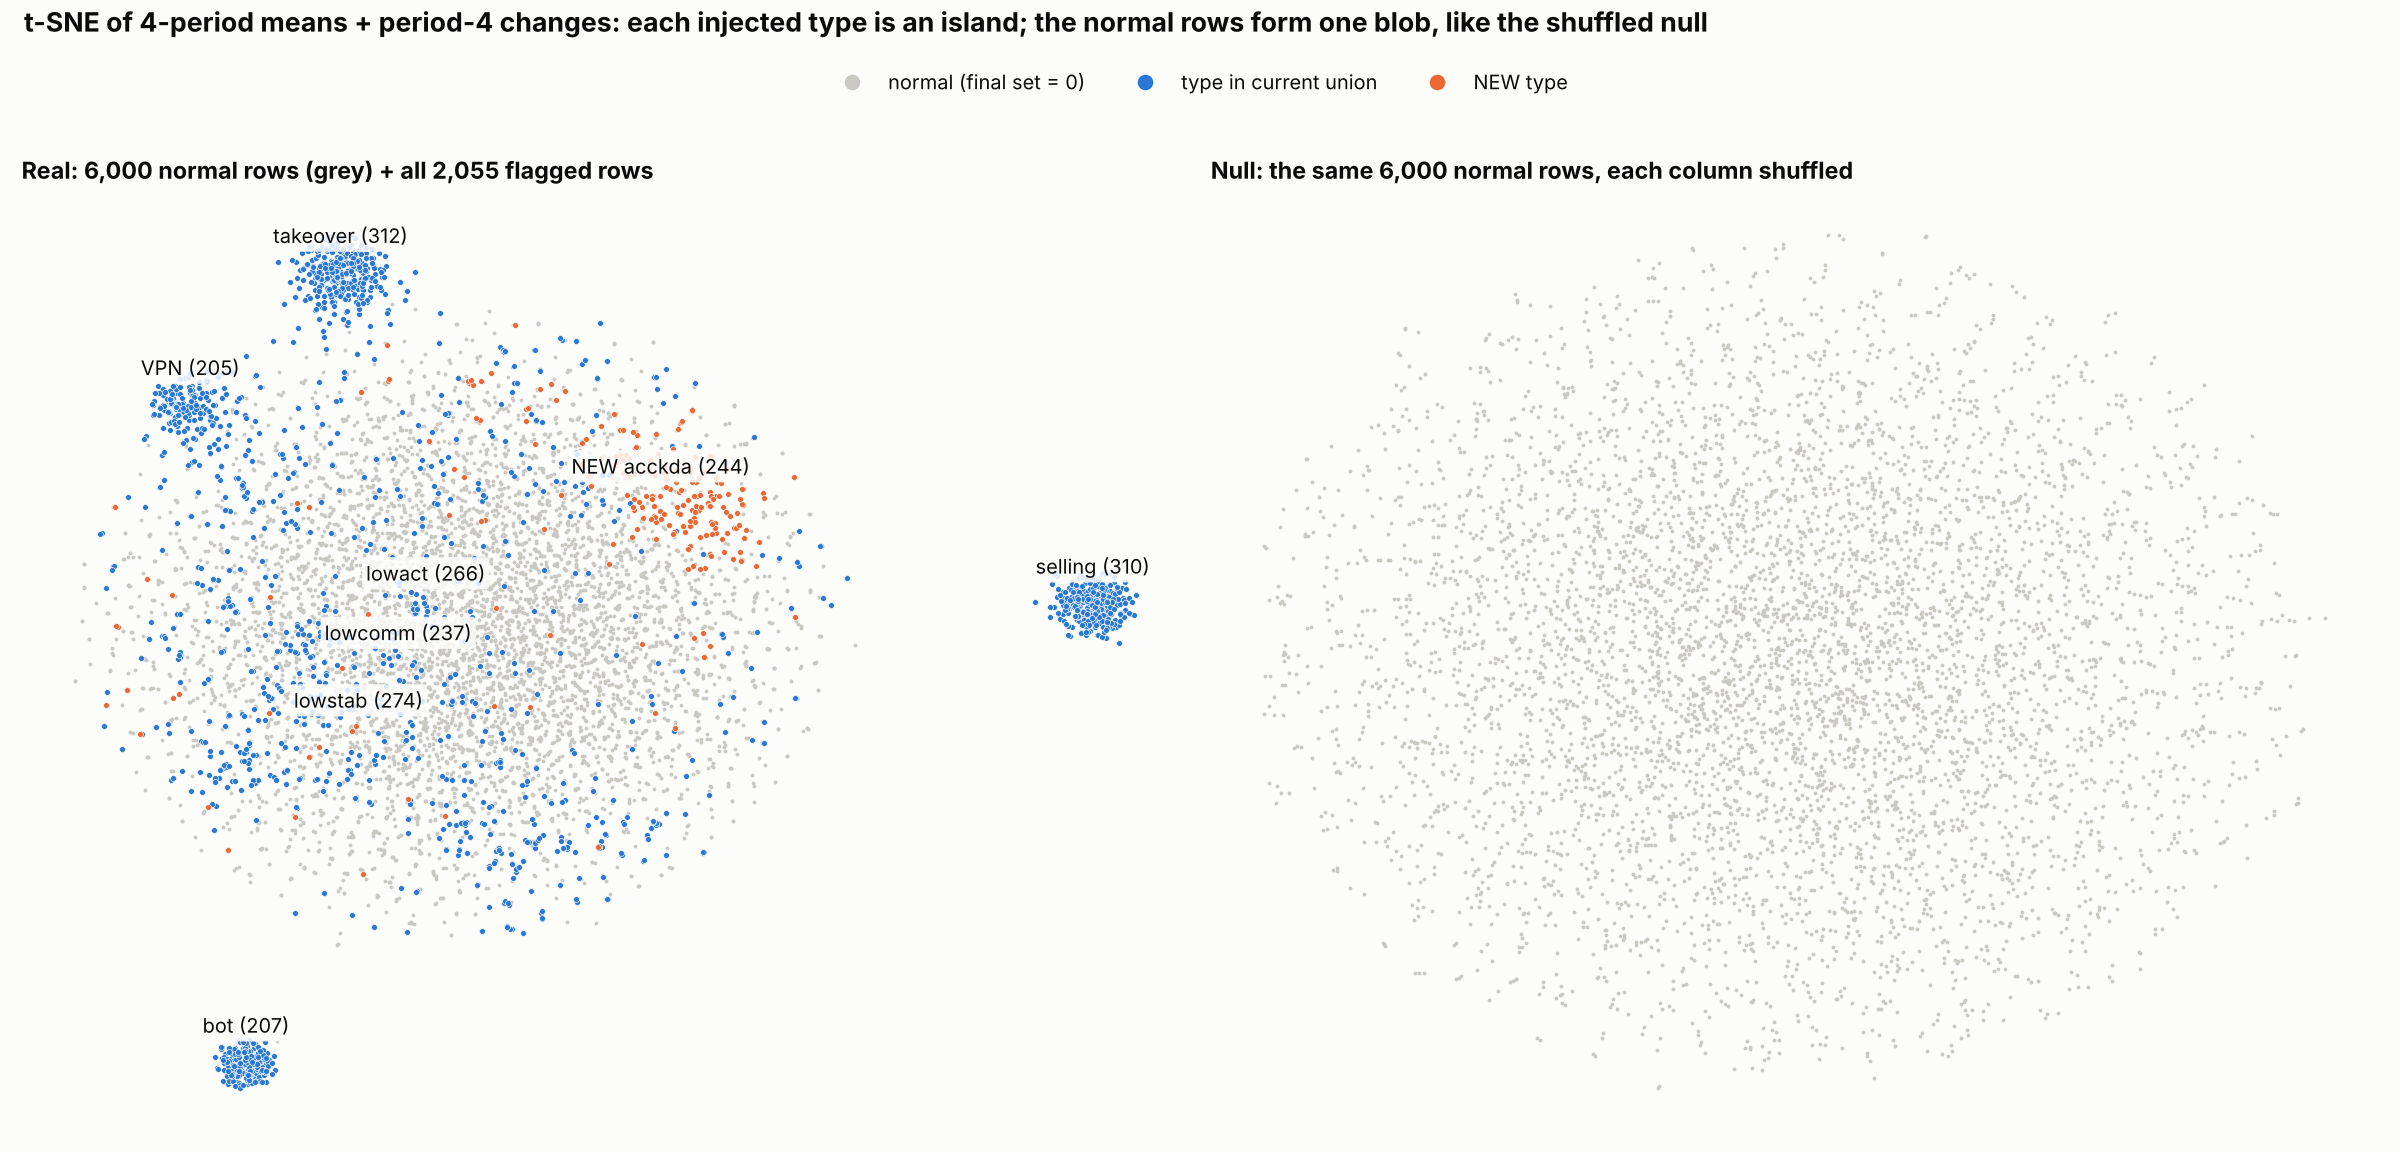
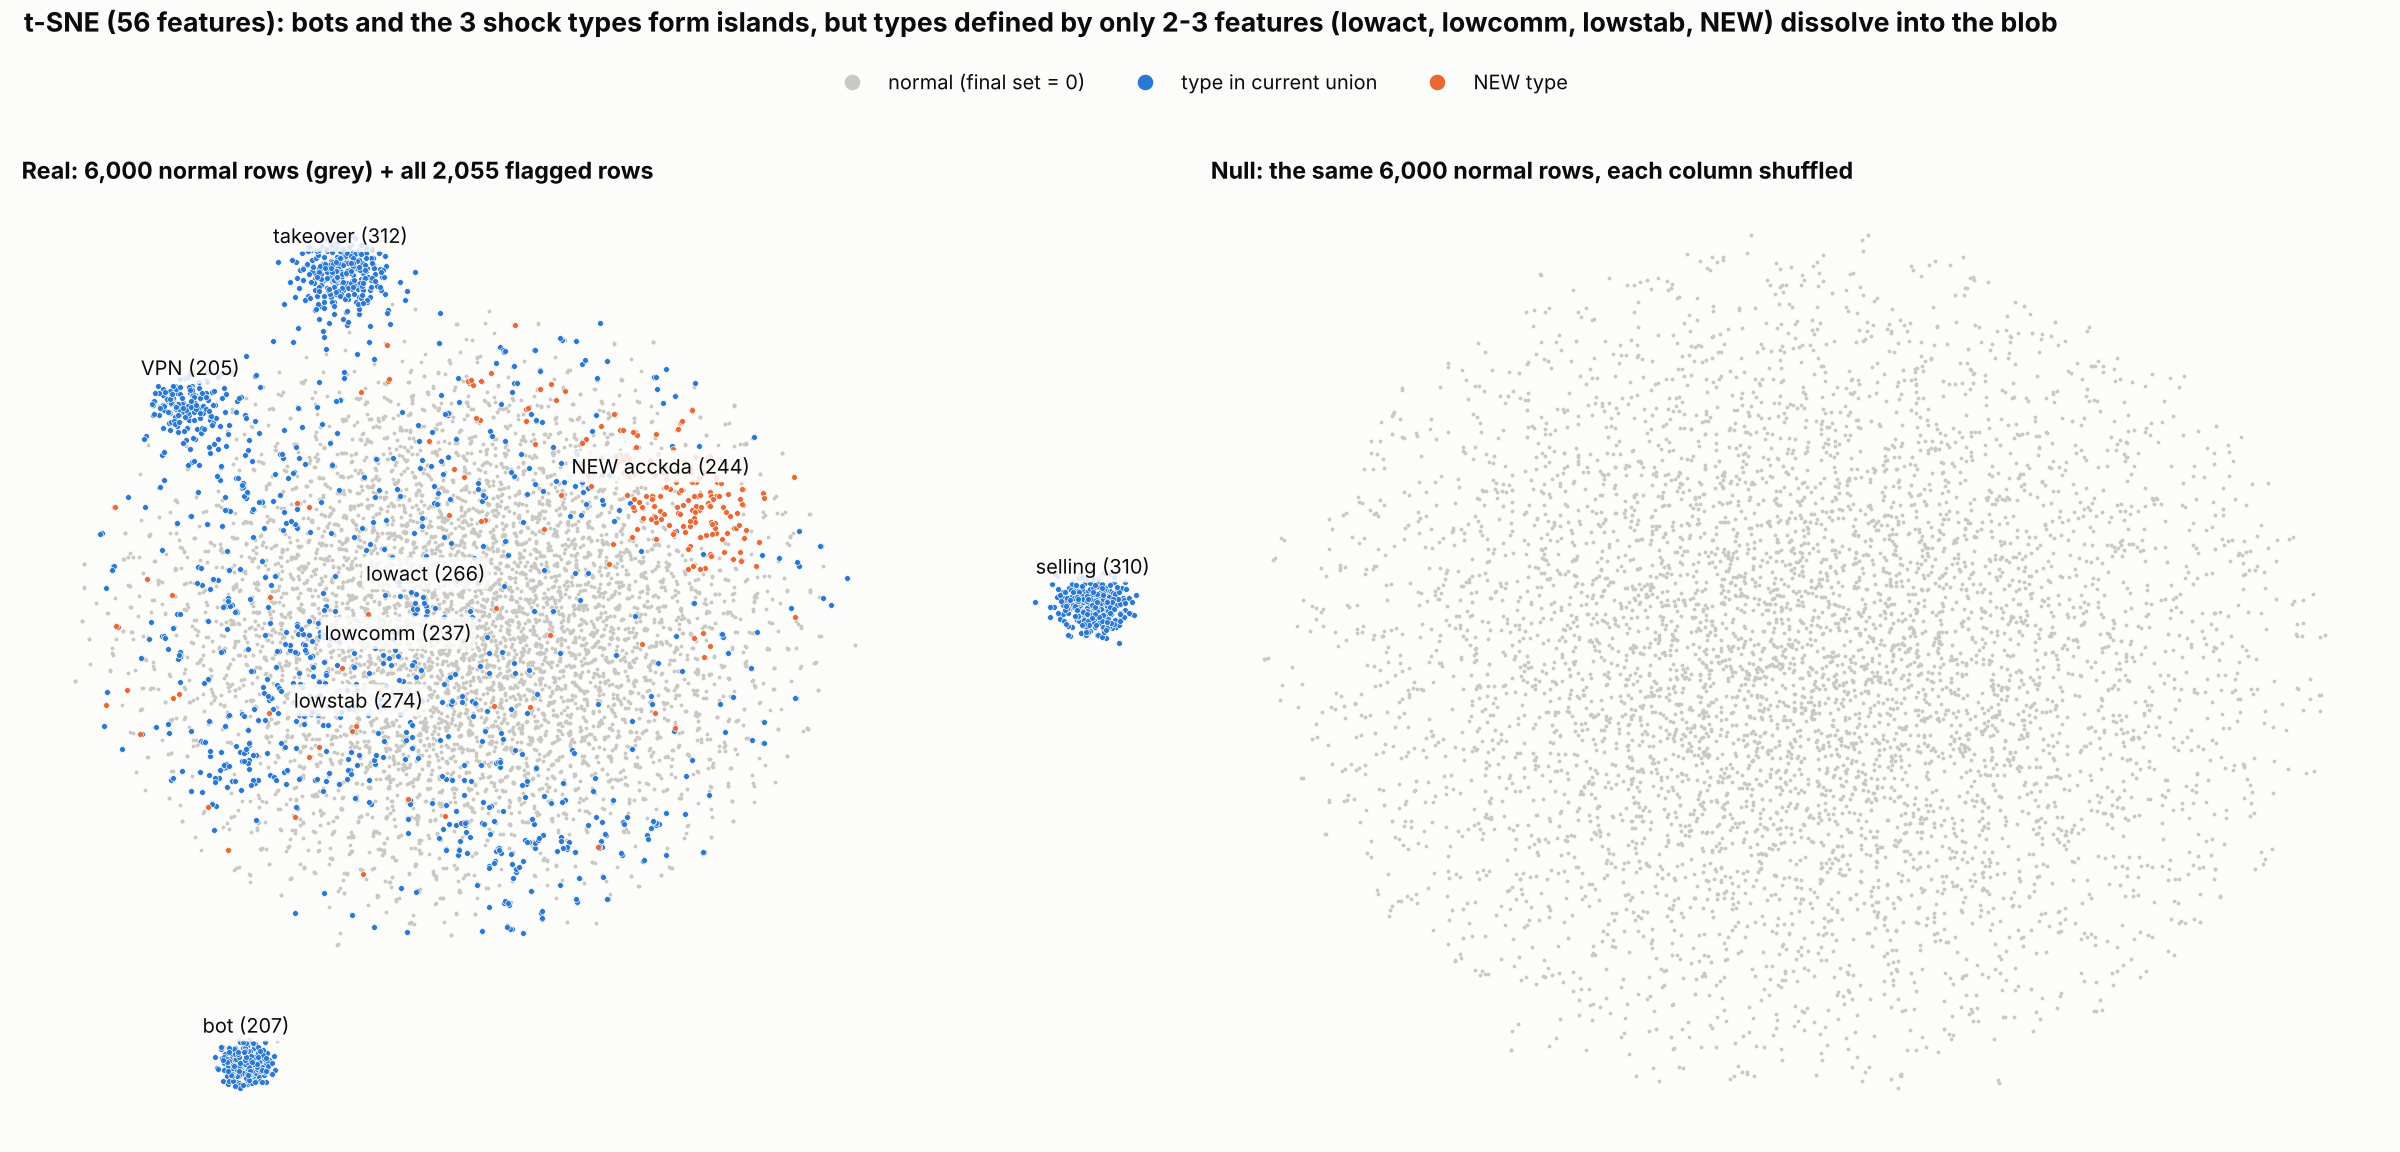
T5 research round 3: 4-feature scan vs fixed shuffled nulls, GMM/HDBSCAN/t-SNE on the normal group
Claude-Session: https://claude.ai/code/session_01R2efytNCptf7nD84gmV6vQ

Changed region(s): [[0.5625, 0.2812, 0.9062, 0.8438], [0.0312, 0.0, 0.875, 0.0312]]

diff --git a/t123/research/t5/REPORT.md b/t123/research/t5/REPORT.md
@@ -158,3 +158,15 @@ Overlap with the union: **1,811/1,811 reproduced, 0 extra**, plus 244 new rows =
 * Global real-vs-shuffled classifier: too weak (R2.1).
 * Isolation Forest / TMLP / TMAE extensions: unstructured tails.
 * Gaussian-EM cuts p10/p50/p90 are superseded by the exact box.
+
+## Round 3 — structure inside the rows still called normal (`t5_normal_structure.py`, `out/normal_structure_log.txt`)
+* **4-feature scan:** all 14,950 combinations of 4 of the 28 means/statics, 5⁴ rank cells, on the 23,834 normal rows. Real top z = **6.27** (activity × friend_adds × reaction_time × account_age; every pair inside it is z ≤ 2.4). Six independent column-shuffle nulls give 5.48–6.62, so the real top is **inside the null range**. Calibration: putting the 244 new-type rows back gives z = **9.9**, so a type of that size would be found.
+* **GMM (BIC) and HDBSCAN on all 28 dims:** real and shuffled data behave the same.
+  * HDBSCAN's only extra cluster (3,877 rows) is the friend_removes = 0 clipping spike.
+  * Neither method isolates the 244 new-type rows in calibration (they come out at 1% share), so full-dimensional clustering is too weak here.
+* **t-SNE** (`figs/fig3_tsne.png`, 56 features):
+  * bot, takeover, selling and VPN are separate islands.
+  * The new type shows as a dense patch at the blob edge.
+  * lowact, lowcomm and lowstab dissolve into the blob.
+
+  So a smooth normal blob is **not** proof that no clusters remain. The low-dimensional scans are, and all of them are at null level.
